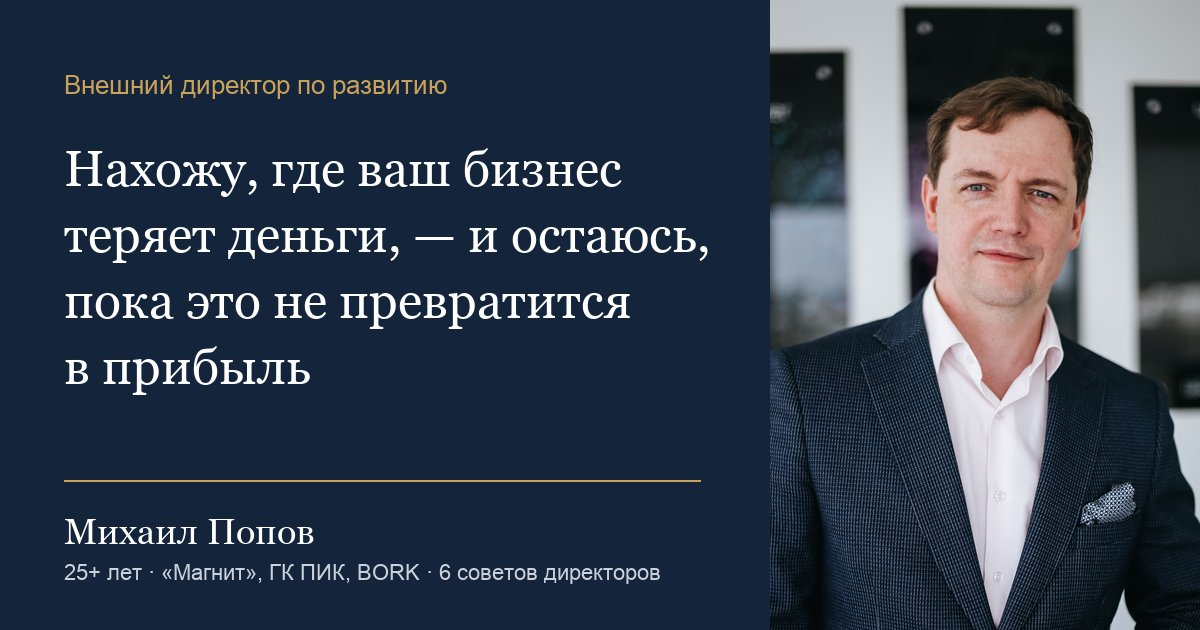
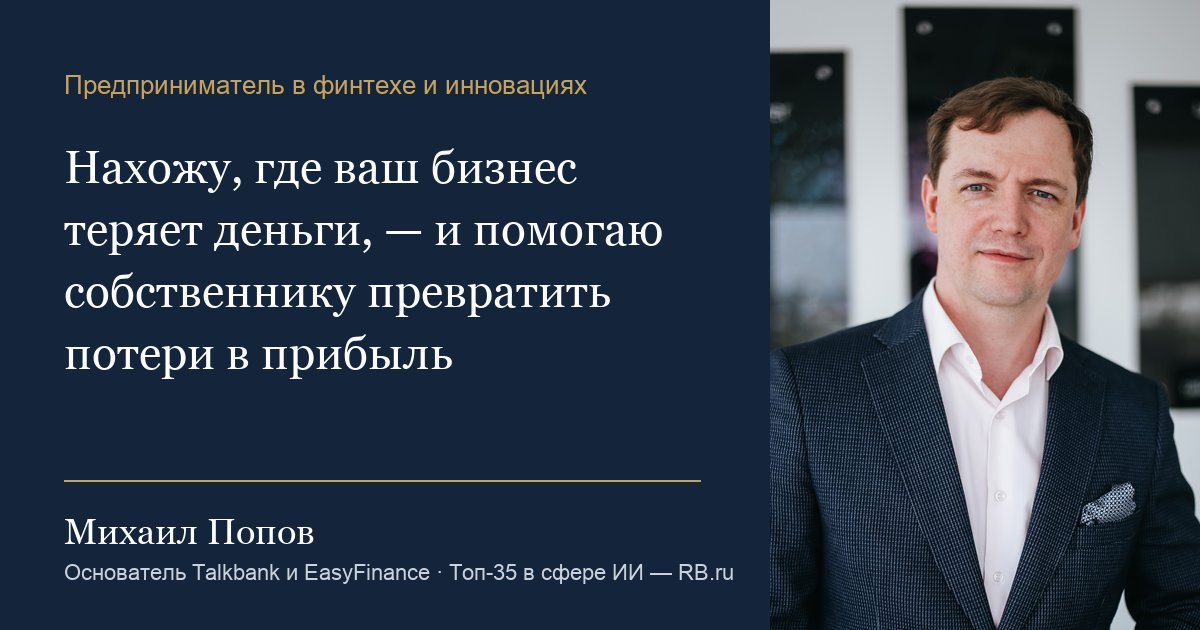
Правки заказчика: новый заголовок, «Обо мне», 7П+1, «Как я работаю», цитата; убраны «Путь», фото команды и переключатель палитры
Также: позиционирование «предприниматель в финтехе и инновациях», новые публикации
из пресс-кита, кейсы, КубГУ.

diff --git a/src/data/home.ts b/src/data/home.ts
@@ -3,15 +3,14 @@ import { MEDIA_STATS } from "./media";
 
 /** Варианты H1 (ТЗ §3.3). Утверждён вариант 1, остальные — для A/B-теста. */
 export const HEADLINES = [
-  "Нахожу, где ваш бизнес теряет деньги, — и остаюсь, пока это не превратится в прибыль",
-  "Внешний директор по развитию для собственников, которые хотят расти в прибыли, а не только в выручке",
+  "Нахожу, где ваш бизнес теряет деньги, — и помогаю собственнику превратить потери в прибыль",
+  "Предприниматель в финтехе и инновациях — помогаю собственникам расти в прибыли, а не только в выручке",
 ];
 
 export const HERO_STATS = [
-  { n: "25+ лет", d: "в управлении — от аналитика до финдиректора" },
+  { n: "25+ лет", d: "в управлении — от аналитика до генерального директора (оборот более $500 млн, штат 25 000 человек)" },
   { n: "6", d: "советов директоров с 2001 года" },
   { n: "5+ млрд ₽", d: "выручка 10+ компаний в акселераторе" },
-  { n: "×60", d: "рост оценки Talkbank" },
   // Дополнение №1, п. 1: число считается из коллекции публикаций
   { n: MEDIA_STATS.total, d: "публикаций в СМИ" },
 ];
@@ -28,16 +27,16 @@ export const PAINS = [
 ];
 
 export const STEPS = [
-  { t: "Знакомство и экспресс-диагностика", d: "Смотрю финансы, процессы, продажи и закупки." },
+  { t: "Знакомство и экспресс-диагностика", d: "Смотрю продукт, продажи, производство, процессы, персонал, платежи, прибыль и личную эффективность собственника." },
   { t: "Карта потерь и план", d: "Где теряются деньги и какие цифры должны получиться." },
   { t: "Внедрение с командой", d: "Меняю процессы изнутри вместе с вашими людьми." },
   { t: "Результат в отчётности", d: "Прирост виден в выручке, марже и прибыли." },
-  { t: "Долгосрочное партнёрство", d: "Остаюсь в бизнесе и зарабатываю вместе с вами." },
+  { t: "Долгосрочное партнёрство", d: "Помогаю построить стратегию дальнейшего устойчивого развития компании." },
 ];
 
 export const SERVICES = [
   { t: "Экспресс-диагностика бизнеса", who: "Собственникам, которые хотят понять, где теряют деньги", what: "Разбор по «7П+1», карта потерь, план изменений с целевыми цифрами", term: "2–4 недели · фикс" },
-  { t: "Внешний директор по развитию", who: "Бизнесу, готовому расти в прибыли", what: "Вход в управление, перестройка процессов вместе с командой, система показателей, контроль результата", term: "6–12 мес. · фикс + % от прироста" },
+  { t: "Партнёр по развитию бизнеса", who: "Бизнесу, готовому расти в прибыли", what: "Вход в управление, перестройка процессов вместе с командой, система показателей, контроль результата", term: "6–12 мес. · фикс + % от прироста" },
   { t: "Антикризисное управление", who: "Убыточный бизнес, кассовые разрывы, давление банков", what: "Стабилизация денежного потока, пересборка закупок и продаж, переговоры с банками, выход в прибыль", term: "3–9 мес. · фикс + %" },
   { t: "Подготовка к продаже или инвестициям", who: "Собственникам перед сделкой", what: "Прозрачная отчётность, рост EBITDA, упаковка для инвестора, участие в переговорах", term: "Фикс + % от сделки или доля" },
   { t: "Цифровизация и ИИ-контроль", who: "Компаниям с хаосом в данных и ручным управлением", what: "Платформа операционного контроля с ИИ, автоматизация отчётности, BI", term: "Сроки и стоимость — по задаче" },
@@ -45,15 +44,15 @@ export const SERVICES = [
 ];
 
 export const METHOD = [
-  { t: "Стратегия", d: "На чём компания на самом деле зарабатывает. Проверяю, какие направления дают прибыль, а какие её съедают." },
   { t: "Продукт", d: "Ассортимент и цены. Нахожу позиции с отрицательной маржой и те, что продаются дешевле, чем могли бы." },
   { t: "Продажи", d: "Каналы, условия для клиентов, дебиторка. Типовые потери — скидки без контроля и долги, которые никто не собирает." },
   { t: "Производство", d: "Себестоимость, закупки, загрузка. Типовые потери — переплаты поставщикам, простои, списания." },
+  { t: "Процессы", d: "Как устроена работа между отделами: согласования, документооборот, передача задач. Где процессы рвутся и тормозят деньги." },
   { t: "Персонал", d: "Структура и мотивация. Кто за что отвечает и как это связано с результатом компании." },
   { t: "Платежи", d: "Денежный поток, оборотный капитал, банки. Кассовые разрывы, отсрочки, стоимость денег." },
-  { t: "Показатели", d: "Управленческая отчётность. Какие цифры видит собственник и как быстро он их получает." },
+  { t: "Прибыль", d: "Где формируется и куда уходит прибыль: маржинальность по направлениям, клиентам и продуктам." },
 ];
-export const METHOD_CENTER = { t: "+1 · Цифровые инструменты", d: "ERP, BI и платформа операционного контроля с ИИ — чтобы изменения держались без ручного контроля собственника." };
+export const METHOD_CENTER = { t: "+1 · Личная эффективность", d: "На что уходит время собственника, какие решения он держит на себе и что можно передать команде — чтобы бизнес рос без ручного управления." };
 
 export const CAREER_CASES = [
   { co: "«Тандер»", num: "−40%", d: "просроченной дебиторской задолженности" },
@@ -63,7 +62,7 @@ export const CAREER_CASES = [
 
 /** Таймлайн. Точки «Школьные годы», «[год]», 2016, 2020 — Дополнение №1, п. 2.2; РС97 и Amtel — из резюме. */
 export const TIMELINE = [
-  { co: "Школьные годы", f: "Первый бизнес — продажа микросхем в радиокружке" },
+  { co: "КубГУ", f: "Финансы и кредит, диплом с отличием" },
   { co: "«Тандер»", f: "От финансового аналитика до финансового директора дочерней компании. Просроченная дебиторка −40%" },
   { co: "[год]", f: "Старший финансовый директор в 23 года [сверить с резюме]" },
   { co: "РС97", f: "Финансовый, затем исполнительный директор, член СД. Региональный дистрибьютор → федеральная розничная сеть" },
@@ -75,6 +74,7 @@ export const TIMELINE = [
   { co: "EasyFinance", f: "350 000+ частных клиентов и 20 000+ бизнес-аккаунтов (2019)" },
   { co: "2016", f: "Основал TalkBank вместе с братом Александром на собственные средства" },
   { co: "Talkbank", f: "Основатель и CEO. 3 инвестраунда, оценка с 20 млн до 1,2 млрд ₽" },
+  { co: "TG Market", f: "Основатель. Маркетплейс в Telegram на платформе Talkbank" },
   { co: "2020", f: "87% обращений клиентов TalkBank обрабатывает робот" },
   { co: "Акселератор", f: "С 12.2025. 10+ компаний, совокупная выручка 5+ млрд ₽" },
 ];
@@ -82,27 +82,30 @@ export const TIMELINE = [
 /** url — ссылка на источник (ТЗ, Приложение А). TODO: заполнить. */
 export const AWARDS: { n: string; d: string; y: string; url?: string }[] = [
   { n: "RB.ru", d: "Топ-35 российских предпринимателей в сфере AI", y: "2019" },
-  { n: "Seedstars", d: "12 лучших финтех-фаундеров из 3 000 команд", y: "2017" },
-  { n: "TechCrunch", d: "Публикация о Talkbank", y: "2016" },
-  { n: "Forbes", d: "Профиль на Forbes.ru", y: "" },
+  { n: "SWIFT Innotribe", d: "Победитель Startup Challenge для России", y: "2017", url: "https://www.swift.com/news-events/press-releases/oz-forensics_scorista-and-talkbank-win-innotribe_s-2017-startup-challenge-for-russia" },
+  { n: "Seedstars", d: "12 лучших финтех-фаундеров из 3 000 команд", y: "2017", url: "https://www.vedomosti.ru/technology/articles/2017/05/02/688239-startap-talkbank" },
+  { n: "TechCrunch", d: "Публикация о Talkbank", y: "2016", url: "https://techcrunch.com/2016/12/16/talkbank-lets-you-chat-with-your-bank" },
+  { n: "Forbes", d: "Профиль на Forbes.ru", y: "", url: "https://www.forbes.ru/profile/361969" },
   { n: "«Сколково»", d: "«Самый инновационный проект»", y: "" },
+  { n: "Московская биржа", d: "Приз конкурса стартапов", y: "" },
   { n: "РВК · Finopolis", d: "Специальный приз", y: "" },
-  { n: "SWIFT Innotribe", d: "Участник", y: "" },
-  { n: "«Ведомости»", d: "Лучший спикер", y: "" },
+  { n: "«Ведомости»", d: "Лучший спикер конференций", y: "" },
+  { n: "«Headliner года»", d: "Финалист всероссийской независимой премии", y: "" },
+  { n: "ИНФИС", d: "Сертифицированный независимый финансовый советник", y: "" },
   { n: "Книга", d: "Соавтор «Личные финансы и семейный бюджет»", y: "" },
 ];
 
 /** История от первого лица (Дополнение №1, п. 2.1). Черновик на согласование. */
 export const ABOUT = [
-  "Мои родители — учителя математики и физики, так что любовь к цифрам у меня с детства. Первый бизнес случился ещё в школе: в радиокружке выбрасывали сломанную электронику, а мы доставали из неё рабочие микросхемы и продавали ребятам, которым их не хватало.",
-  "Потом — экономфак с красным дипломом и путь корпоративного финансиста: от аналитика в «Тандере» («Магнит») до исполнительного директора компании с [20/25] тысячами сотрудников. Дальше расти можно было только в своём бизнесе.",
-  "Я основал сервис личных финансов EasyFinance, а в 2016 году вместе с братом — TalkBank, первый в России банк в мессенджерах. Запустили на свои деньги, прошли три инвестраунда и привели стратегического инвестора.",
-  "Сегодня я делаю то же, что в школьном радиокружке, только в масштабе компаний: нахожу ценность и деньги там, где их не замечают, — и довожу изменения до прибыли.",
+  "Я получил сильное математическое и экономическое образование и был одним из сильнейших студентов на курсе.",
+  "Мой профессиональный путь начался в одном из лидеров российской экономики — «Тандере» («Магнит»). Там я получил бесценный опыт перемен, управления оборотными активами и антикризисной работы с дочерними компаниями. Дальше строил карьеру топ-менеджера в разных отраслях, в известных компаниях, решая сложные задачи развития и трансформации.",
+  "Потом получил неповторимый опыт венчурного инвестора и основателя инновационной компании, которую отметили не только в России, но и в других странах как прорыв в финтехе.",
+  "Развивая финтех и помогая предпринимателям внедрять цифровые инновации, я понял, что огромное количество бизнесов работает неэффективно и бессистемно. Исправляя эти системные ошибки, я дал собственникам возможность зарабатывать значительно больше. Так я пришёл к идее акселератора бизнеса.",
 ];
 
 /** Цитаты-разделители (Дополнение №1, п. 4). Вторая — пересказ, утвердить у Михаила. */
 export const QUOTES = {
-  afterPains: "Успех не в том, чтобы засветиться, а в репутации и доверии, которые приводят клиентов",
+  afterPains: "Компании приходят в кризис сами, а выходят с внешней помощью, которую я предоставляю",
   afterCases: "Деньги на старте нужно тратить на то, что приводит клиента, а не на статус",
   form: "Ключевая ошибка, от которой нельзя избавиться, — упущенное время",
 };

diff --git a/src/app/page.tsx b/src/app/page.tsx
@@ -5,7 +5,7 @@ import Note from "@/components/Note";
 import Pic from "@/components/Pic";
 import { TgIcon } from "@/components/icons";
 import {
-  ABOUT, AWARDS, CAREER_CASES, FAQ, FIT, HERO_STATS, NOT_FIT, PAINS, QUOTES, SERVICES, STEPS, TIMELINE,
+  ABOUT, AWARDS, CAREER_CASES, FAQ, FIT, HERO_STATS, NOT_FIT, PAINS, QUOTES, SERVICES, STEPS,
 } from "@/data/home";
 import { COMPANY_LOGOS, OUTLET_LOGOS, PRESS_LOGOS } from "@/data/logos";
 import { FEATURED, fmtDate, MEDIA_STATS } from "@/data/media";
@@ -15,8 +15,8 @@ import { Faq, MethodScheme } from "./_home/Interactive";
 import s from "./home.module.css";
 
 export const metadata = meta({
-  title: "Михаил Попов — внешний директор по развитию",
-  description: "Нахожу, где бизнес теряет деньги, и остаюсь, пока это не превратится в прибыль. 25+ лет в управлении: «Магнит», ГК ПИК, BORK. Фикс + процент от результата.",
+  title: "Михаил Попов — предприниматель, основатель Talkbank и EasyFinance",
+  description: "Михаил Попов — предприниматель в финтехе и инновациях, основатель Talkbank и EasyFinance. Нахожу, где бизнес теряет деньги, и помогаю собственнику превратить потери в прибыль.",
   path: "/",
 });
 
@@ -27,9 +27,9 @@ export default function Home() {
   return (
     <main>
       <JsonLd data={{
-        "@context": "https://schema.org", "@type": "Person", name: "Михаил Попов", jobTitle: "Внешний директор по развитию",
+        "@context": "https://schema.org", "@type": "Person", name: "Михаил Попов", jobTitle: "Предприниматель, основатель и CEO Talkbank",
         url: SITE_URL, image: SITE_URL + "/img/portrait-840.jpg", sameAs: [TELEGRAM, FORBES],
-        worksFor: { "@type": "Organization", name: "Михаил Попов — внешний директор по развитию", url: SITE_URL },
+        worksFor: { "@type": "Organization", name: "Talkbank" },
       }} />
       <JsonLd data={{
         "@context": "https://schema.org", "@type": "FAQPage",
@@ -39,9 +39,9 @@ export default function Home() {
       {/* Первый экран */}
       <section id="top" className={`container ${s.hero}`}>
         <div className={s.heroText}>
-          <p className={s.byline}>Михаил Попов <span>—</span> внешний директор по развитию</p>
-          <h1 className={s.h1}>Нахожу, где ваш бизнес теряет деньги, — и&nbsp;<em>остаюсь</em>, пока это не&nbsp;превратится в&nbsp;прибыль</h1>
-          <p className={s.heroLead}>Захожу в компанию, перестраиваю процессы вместе с&nbsp;вашей командой и довожу до роста прибыли. Работаю за&nbsp;фикс и процент от&nbsp;результата.</p>
+          <p className={s.byline}>Михаил Попов <span>—</span> предприниматель в финтехе и инновациях, основатель Talkbank и EasyFinance</p>
+          <h1 className={s.h1}>Нахожу, где ваш бизнес теряет деньги, — и&nbsp;<em>помогаю</em> собственнику превратить потери в&nbsp;прибыль</h1>
+          <p className={s.heroLead}>Захожу в компанию, перестраиваю процессы вместе с&nbsp;вашей командой и довожу до роста прибыли.</p>
           <div className={s.heroCtas}>
             <a href="#form" className="btn btn-primary">Обсудить задачу</a>
             <a href="#cases" className="btn btn-outline">Посмотреть кейсы</a>
@@ -94,12 +94,11 @@ export default function Home() {
       {/* Цитата с фото */}
       <section className={`container ${s.photoQuote}`} data-reveal>
         <figure className={s.pqPhoto}>
-          <Pic name="gallery-1" widths={[720, 1100]} sizes="(max-width: 900px) 90vw, 560px" alt="Михаил Попов в офисе Talkbank" />
-          <figcaption>В офисе Talkbank</figcaption>
+          <Pic name="about" widths={[520, 1040]} sizes="(max-width: 900px) 90vw, 560px" alt="Михаил Попов" />
         </figure>
         <figure className={s.pqText}>
           <blockquote>{QUOTES.afterPains}</blockquote>
-          <figcaption>— из интервью, 2020</figcaption>
+          <figcaption>— Михаил Попов</figcaption>
         </figure>
       </section>
 
@@ -108,7 +107,7 @@ export default function Home() {
         <div className="container sec" data-reveal>
           <div className={s.howHead}>
             <h2 className="h2" style={{ color: "#fff" }}>Как я работаю</h2>
-            <p>Я не пишу отчёт и не ухожу. Работаю внутри компании вместе с&nbsp;вашей командой, пока изменения не появятся в&nbsp;отчётности.</p>
+            <p>Я работаю с собственником и его командой внутри компании по авторской методике «7П+1». Она позволяет получить устойчивый рост выручки и прибыли и вывести компанию на более высокий уровень развития.</p>
           </div>
           <ol className={s.steps}>
             {STEPS.map((x, i) => (
@@ -127,7 +126,7 @@ export default function Home() {
       <section id="services" className="container sec" data-reveal>
         <div className={s.servicesHead}>
           <h2 className="h2">Услуги</h2>
-          <p className="lead">Большинство клиентов начинают с диагностики — через 2–4 недели понятно, где деньги и сколько их.</p>
+          <p className="lead">Большинство клиентов начинают с диагностики — через 2–4 недели понятно, где компания теряет деньги и в каком приоритете строить работу по исправлению ситуации.</p>
         </div>
         <div className={s.services}>
           {SERVICES.map((v, i) => (
@@ -183,7 +182,7 @@ export default function Home() {
             <div className={s.paras}>
               {ABOUT.filter(shown).map((p) => <p key={p.slice(0, 20)}>{p}</p>)}
             </div>
-            <Note>Черновик на согласование (Дополнение №1, п. 2.1). Уточнить: 20 или 25 тыс. сотрудников; можно ли упоминать брата Александра.</Note>
+            
             <p className={s.boards}><b>6 советов директоров</b> с 2001 года. Там моя работа — защищать интересы акционеров и контролировать менеджмент.</p>
             {RESUME_PDF
               ? <a href={asset(RESUME_PDF)} download className="btn btn-outline" style={{ alignSelf: "flex-start" }}>Скачать резюме (PDF)</a>
@@ -196,18 +195,9 @@ export default function Home() {
           </div>
           <div className={s.path}>
             <h3 className={s.pathTitle}>Путь</h3>
-            <ol className={s.timeline}>
-              {TIMELINE.filter((t) => shown(t.co + t.f)).map((t) => <li key={t.co + t.f}><b>{t.co}</b><span>{t.f}</span></li>)}
-            </ol>
           </div>
         </div>
       </section>
-
-      {/* Фото команды */}
-      <figure className={s.teamPhoto}>
-        <Pic name="team" widths={[1600, 2400]} sizes="100vw" alt="Михаил Попов с командой Talkbank" />
-        <figcaption className="container">С командой Talkbank. Проектных менеджеров мы растили из службы поддержки.</figcaption>
-      </figure>
 
       {/* Акселератор */}
       <section className={`container sec ${s.accel}`} data-reveal>
@@ -251,7 +241,7 @@ export default function Home() {
               <h3 className={s.colTitle}>Награды и рейтинги</h3>
               <ul className={s.awards}>
                 {AWARDS.map((w) => (
-                  <li key={w.n}><b>{w.n}</b><span>{w.d}{w.y && <em> · {w.y}</em>}</span></li>
+                  <li key={w.n}>{w.url ? <a href={w.url} target="_blank" rel="noopener"><b>{w.n} ↗</b></a> : <b>{w.n}</b>}<span>{w.d}{w.y && <em> · {w.y}</em>}</span></li>
                 ))}
               </ul>
             </div>

diff --git a/src/app/layout.tsx b/src/app/layout.tsx
@@ -3,7 +3,6 @@ import { Golos_Text, Literata } from "next/font/google";
 import Footer from "@/components/Footer";
 import Header from "@/components/Header";
 import LeadModal from "@/components/LeadModal";
-import PaletteSwitcher from "@/components/PaletteSwitcher";
 import Reveal from "@/components/Reveal";
 import { SITE_NAME, SITE_URL } from "@/lib/config";
 import "./globals.css";
@@ -13,8 +12,8 @@ const golos = Golos_Text({ subsets: ["cyrillic", "latin"], weight: ["400", "500"
 
 export const metadata: Metadata = {
   metadataBase: new URL(SITE_URL + "/"),
-  title: { default: "Михаил Попов — внешний директор по развитию", template: `%s — ${SITE_NAME}` },
-  description: "Нахожу, где бизнес теряет деньги, и остаюсь, пока это не превратится в прибыль. 25+ лет в управлении: «Магнит», ГК ПИК, BORK. Для собственников с выручкой от 300 млн ₽.",
+  title: { default: "Михаил Попов — предприниматель, основатель Talkbank и EasyFinance", template: `%s — ${SITE_NAME}` },
+  description: "Михаил Попов — предприниматель в финтехе и инновациях, основатель Talkbank и EasyFinance. Нахожу, где бизнес теряет деньги, и помогаю собственнику превратить потери в прибыль.",
 };
 
 export const viewport: Viewport = { themeColor: "#F5F3EE" };
@@ -23,7 +22,7 @@ export default function RootLayout({ children }: { children: React.ReactNode }) 
   return (
     <html lang="ru" suppressHydrationWarning className={`${serif.variable} ${golos.variable}`}>
       <head>
-        <script dangerouslySetInnerHTML={{ __html: "var d=document.documentElement;d.classList.add('js');try{var p=new URLSearchParams(location.search).get('palette');if(p!==null)localStorage.setItem('popov_palette',p);p=localStorage.getItem('popov_palette');if(p)d.dataset.palette=p}catch(e){}" }} />
+        <script dangerouslySetInnerHTML={{ __html: "document.documentElement.classList.add('js')" }} />
       </head>
       <body>
         <Header />
@@ -31,7 +30,6 @@ export default function RootLayout({ children }: { children: React.ReactNode }) 
         <Footer />
         <LeadModal />
         <Reveal />
-        <PaletteSwitcher />
       </body>
     </html>
   );

diff --git a/src/app/globals.css b/src/app/globals.css
@@ -120,33 +120,3 @@ html.js [data-reveal].in { opacity: 1; transform: none; }
 /* Логотипы-ссылки: монохром, при наведении темнеют */
 .logo-link { display: inline-flex; color: inherit; transition: color .15s; }
 .logo-link:hover { color: var(--navy); }
-
-/* ——— Палитры на выбор (временно: переключатель внизу страницы) ——— */
-html[data-palette="warm"] {
-  --paper: #F6F0E6; --white: #FFFCF7; --line: #DDD3C3; --line-soft: #EAE2D5;
-  --gold: #E8B04A; --gold-hover: #F0C166; --gold-dark: #B8482A;
-  --btn: #C9532F; --btn-hover: #B4472A; --btn-text: #fff; --num: #B8482A;
-}
-html[data-palette="green"] {
-  --navy: #173A2F; --navy-hover: #1F4A3C; --navy-deep: #102A22;
-  --paper: #F3EFE4; --white: #FBF9F3; --line: #D8D2C2; --line-soft: #E6E0D2;
-  --gold: #E0A548; --gold-hover: #EBB663; --gold-dark: #A9651A;
-  --ink-1: #22332C; --ink-2: #34463E; --ink-3: #4A5B53; --ink-4: #66756E; --muted: #56655E;
-  --on-navy: #CFDCD4; --on-navy-2: #B3C4BA; --on-navy-3: #8FA398;
-  --btn: #173A2F; --btn-hover: #1F4A3C; --btn-text: #fff; --num: #173A2F;
-}
-html[data-palette="contrast"] {
-  --navy: #111418; --navy-hover: #262B31; --navy-deep: #0A0C0F;
-  --paper: #F4F4F1; --white: #FFFFFF; --line: #DCDCD7; --line-soft: #E8E8E4;
-  --gold: #FF5A1F; --gold-hover: #FF7440; --gold-dark: #D2400B;
-  --ink-1: #1F2328; --ink-2: #3A3F46; --ink-3: #50565E; --ink-4: #6E747B; --muted: #5C6168;
-  --on-navy: #D5D7DA; --on-navy-2: #B5B9BE; --on-navy-3: #8B9097;
-  --btn: #FF5A1F; --btn-hover: #FF7440; --btn-text: #111418; --num: #111418;
-}
-
-.palette-switch { position: fixed; left: 16px; bottom: 16px; z-index: 36; display: flex; flex-wrap: wrap; align-items: center; gap: 6px; padding: 8px; background: #fff; border: 1px solid #D6D1C6; box-shadow: 0 6px 24px rgba(0,0,0,.12); font: 500 13px/1 var(--sans); color: #13243B; max-width: calc(100vw - 32px); }
-.palette-switch > span { padding: 0 6px; color: #6B7584; }
-.palette-switch button { display: inline-flex; align-items: center; gap: 6px; padding: 8px 10px; border: 1px solid transparent; background: none; font: inherit; color: inherit; cursor: pointer; }
-.palette-switch button[aria-pressed="true"] { border-color: #13243B; }
-.palette-switch i { width: 16px; height: 16px; border-radius: 50%; border: 1px solid rgba(0,0,0,.1); }
-@media (max-width: 899px) { .palette-switch { bottom: 92px; } }

diff --git a/src/app/_home/Interactive.tsx b/src/app/_home/Interactive.tsx
@@ -46,7 +46,7 @@ export function MethodScheme({ note }: { note?: React.ReactNode }) {
     <>
       <div className={s.methodText}>
         <h2 className="h2">Методология «7П+1»</h2>
-        <p className="lead">Проверяю бизнес по семи направлениям и цифровым инструментам управления. Так потери находятся системно, а не по интуиции.</p>
+        <p className="lead">Проверяю бизнес по семи направлениям и личной эффективности собственника. Так потери находятся системно, а не по интуиции.</p>
         <div className={s.methodPanel} aria-live="polite">
           <div key={node} className={s.panelIn}>
             <b>{act.t}</b>
@@ -64,8 +64,8 @@ export function MethodScheme({ note }: { note?: React.ReactNode }) {
           <button key={m.t} type="button" className={s.node} style={{ left: POS[i][0], top: POS[i][1], ["--i" as string]: i }}
             aria-pressed={node === i} onClick={() => pick(i)} onMouseEnter={hover(i)}>{m.t}</button>
         ))}
-        <button type="button" className={s.center} aria-pressed={node === 7} onClick={() => pick(7)} onMouseEnter={hover(7)} aria-label="+1 — цифровые инструменты">
-          <b>+1</b><span>цифровые инструменты</span>
+        <button type="button" className={s.center} aria-pressed={node === 7} onClick={() => pick(7)} onMouseEnter={hover(7)} aria-label="+1 — личная эффективность">
+          <b>+1</b><span>личная эффективность</span>
         </button>
       </div>
     </>

diff --git a/src/app/blog/[slug]/page.tsx b/src/app/blog/[slug]/page.tsx
@@ -63,7 +63,7 @@ export default async function ArticlePage({ params }: Props) {
           <Share title={p.t} />
           <div className={s.author}>
             <div className={s.ava}><Pic name="avatar" widths={[192]} sizes="72px" alt="" /></div>
-            <div><b>Михаил Попов</b><span>Внешний директор по развитию. 25+ лет в управлении, 6 советов директоров.</span></div>
+            <div><b>Михаил Попов</b><span>Предприниматель, основатель Talkbank и EasyFinance. 25+ лет в управлении, 6 советов директоров.</span></div>
           </div>
           <div className={s.artCta}>
             <span>Хотите разобрать свой бизнес? Запишитесь на диагностику</span>

diff --git a/src/data/cases.ts b/src/data/cases.ts
@@ -36,7 +36,7 @@ export const CASE_DETAILS = {
       { k: "Производство", v: "[Где терялись деньги в закупках и себестоимости]" },
       { k: "Продажи", v: "[Что нашли в каналах, ценах, дебиторке]" },
       { k: "Платежи", v: "[Денежный поток, кредиты, отношения с банками]" },
-      { k: "Показатели", v: "[Какой отчётности не хватало собственнику]" },
+      { k: "Прибыль", v: "[Где терялась маржа и какой отчётности не хватало собственнику]" },
     ],
     steps: [
       { t: "Экспресс-диагностика и карта потерь", d: "[Кто участвовал · срок]" },

diff --git a/src/components/Footer.tsx b/src/components/Footer.tsx
@@ -8,7 +8,7 @@ export default function Footer() {
     <>
       <footer className={s.footer}>
         <div className={s.inner}>
-          <div className={s.brand}><b>Михаил Попов</b><span>Внешний директор по развитию</span></div>
+          <div className={s.brand}><b>Михаил Попов</b><span>Предприниматель в финтехе и инновациях</span></div>
           <nav className={s.menu} aria-label="Меню в подвале">
             <Link href="/#services">Услуги</Link><Link href="/#how">Как я работаю</Link><Link href="/cases/">Кейсы</Link>
             <Link href="/#about">Обо мне</Link><Link href="/blog/">Блог</Link><Link href="/media/">Публикации</Link>

diff --git a/src/data/media.ts b/src/data/media.ts
@@ -39,5 +39,6 @@ export const FEATURED = FEATURED_ORDER.flatMap((f) => {
   return p ? [{ ...p, pub: f.pub, title: f.title, type: f.type }] : [];
 });
 
+/** Дата публикации; пустая — дата неизвестна (ссылка из пресс-кита, страница недоступна). */
 export const fmtDate = (p: Publication) =>
-  p.approx ? p.date.slice(0, 4) : p.date.split("-").reverse().join(".");
+  !p.date ? "—" : p.approx ? p.date.slice(0, 4) : p.date.split("-").reverse().join(".");

diff --git a/src/app/media/MediaList.tsx b/src/app/media/MediaList.tsx
@@ -5,7 +5,7 @@ import s from "../inner.module.css";
 
 const ALL = "Все";
 const PER_PAGE = 20;
-const years = [...new Set(PUBLICATIONS.map((p) => p.date.slice(0, 4)))];
+const years = [...new Set(PUBLICATIONS.map((p) => p.date.slice(0, 4)).filter(Boolean))];
 const outlets = [...new Set(PUBLICATIONS.map((p) => p.pub))].sort((a, b) => a.localeCompare(b, "ru"));
 const types = [...new Set(PUBLICATIONS.map((p) => p.type))];
 
